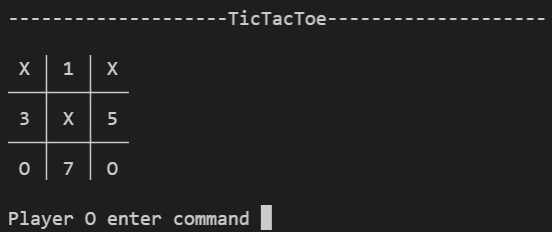
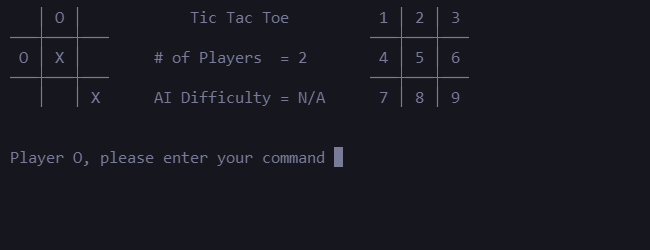
tictactoe simplify display game function and move command system from 0-8 to 1-9 for aesthetics

diff --git a/tictactoe/TicTacToe.cpp b/tictactoe/TicTacToe.cpp
@@ -3,17 +3,21 @@
 //  @Author: Junaid Afzal
 //
 
-#include "TicTacToe.hpp"
 
+
+// to prevent max error with windows.h redefining it
+// https://stackoverflow.com/questions/7035023/stdmax-expected-an-identifier/7035078
+#define NOMINMAX
+#include <windows.h>
+
+#include "TicTacToe.hpp"
 #include <iostream>
 #include <ctime>
 #include <limits>
 #include <algorithm>
 #include <conio.h>
-// to prevent max error with windows.h redefining it
-// https://stackoverflow.com/questions/7035023/stdmax-expected-an-identifier/7035078
-#define NOMINMAX
-#include <windows.h>
+
+
 
 void Setup_Game(unsigned int &NumberOfTurns,
                 unsigned int &CurrentPlayer,
@@ -31,7 +35,7 @@ void Setup_Game(unsigned int &NumberOfTurns,
 
     for (int j = 0; j < 3; j++, GridNumber++)
     {
-      GameData[i].push_back(std::to_string(GridNumber));
+      GameData[i].push_back(" ");
       ValidMovesRemaining.push_back(GridNumber);
     }
   }
@@ -63,7 +67,7 @@ int Get_Number_Of_Players(const std::vector<std::vector<std::string>> &GameData,
 
   while (!IsValueCorrect)
   {
-    Display_Game(GameData, -1, "N/A");
+    Display_Game(GameData, "N/A", "N/A");
     std::cout << "\n\nEnter the number of human players ";
 
     std::cin >> NumberOfPlayers;
@@ -103,7 +107,7 @@ int Get_User_X_O_Choice(const std::vector<std::vector<std::string>> &GameData,
 
   while (!IsValueCorrect)
   {
-    Display_Game(GameData, NumberOfPlayers, "N/A");
+    Display_Game(GameData, std::to_string(NumberOfPlayers), "N/A");
     std::cout << "\n\nEnter you player counter (X or O) ";
 
     std::cin >> UserXOChoice;
@@ -150,7 +154,7 @@ std::string Get_AI_Difficulty(const std::vector<std::vector<std::string>> &GameD
 
   while (!IsValueCorrect)
   {
-    Display_Game(GameData, NumberOfPlayers, "N/A");
+    Display_Game(GameData, std::to_string(NumberOfPlayers), "N/A");
     std::cout << "\n\nEnter the AI difficulty (EASY or HARD) ";
 
     std::cin >> AIDifficulty;
@@ -198,7 +202,7 @@ std::string Get_AI_Difficulty(const std::vector<std::vector<std::string>> &GameD
     Capitalise_Word(AIDifficulty);
 
     // Only X and O inputs allowed
-    if ((AIDifficulty != "EASY") && (AIDifficulty != "HARD"))
+    if (AIDifficulty != "EASY" && AIDifficulty != "HARD")
     {
       // Clear buffer and retry
       std::cin.clear();
@@ -241,30 +245,30 @@ bool Game_Over(const unsigned int &NumberOfTurns)
 bool Winning_Conditions_Met(const std::vector<std::vector<std::string>> &GameData)
 {
   // Check Horizontals
-  if (GameData[0][0] == GameData[0][1] && GameData[0][1] == GameData[0][2])
+  if (GameData[0][0]!= " " && GameData[0][0] == GameData[0][1] && GameData[0][1] == GameData[0][2])
     return true;
 
-  else if (GameData[1][0] == GameData[1][1] && GameData[1][1] == GameData[1][2])
+  else if (GameData[1][0]!= " " && GameData[1][0] == GameData[1][1] && GameData[1][1] == GameData[1][2])
     return true;
 
-  else if (GameData[2][0] == GameData[2][1] && GameData[2][1] == GameData[2][2])
+  else if (GameData[2][0]!= " " && GameData[2][0] == GameData[2][1] && GameData[2][1] == GameData[2][2])
     return true;
 
   // Check verticals
-  else if (GameData[0][0] == GameData[1][0] && GameData[1][0] == GameData[2][0])
+  else if (GameData[0][0]!= " " && GameData[0][0] == GameData[1][0] && GameData[1][0] == GameData[2][0])
     return true;
 
-  else if (GameData[0][1] == GameData[1][1] && GameData[1][1] == GameData[2][1])
+  else if (GameData[0][1]!= " " && GameData[0][1] == GameData[1][1] && GameData[1][1] == GameData[2][1])
     return true;
 
-  else if (GameData[0][2] == GameData[1][2] && GameData[1][2] == GameData[2][2])
+  else if (GameData[0][2]!= " " && GameData[0][2] == GameData[1][2] && GameData[1][2] == GameData[2][2])
     return true;
 
   // Check diagonals
-  else if (GameData[0][0] == GameData[1][1] && GameData[1][1] == GameData[2][2])
+  else if (GameData[0][0]!= " " && GameData[0][0] == GameData[1][1] && GameData[1][1] == GameData[2][2])
     return true;
 
-  else if (GameData[2][0] == GameData[1][1] && GameData[1][1] == GameData[0][2])
+  else if (GameData[2][0]!= " " && GameData[2][0] == GameData[1][1] && GameData[1][1] == GameData[0][2])
     return true;
 
   else
@@ -272,91 +276,36 @@ bool Winning_Conditions_Met(const std::vector<std::vector<std::string>> &GameDat
 }
 
 void Display_Game(const std::vector<std::vector<std::string>> &GameData,
-                  const unsigned int &NumberOfPlayers,
+                  const std::string &NumberOfPlayers,
                   const std::string &AIDifficulty)
 {
   // Start from blank terminal
   Clear_Terminal();
 
-  // Iterate across whole grid and output its value
-  for (unsigned int i = 0; i < 3; i++)
-  {
-    for (unsigned int j = 0; j < 3; j++)
-    {
-      if ((GameData[i][j] == "X") || (GameData[i][j] == "O"))
-        std::cout << std::left << " " << GameData[i][j] << " ";
-      else
-        std::cout << std::left << "   ";
+  // Line 1
+  std::cout << "\n " << GameData[0][0] << ' ' << (char)179 << ' ' << GameData[0][1] << ' ' << (char)179 << ' ' << GameData[0][2] << ' ';
+  std::cout << "\t    Tic Tac Toe    \t";
+  std::cout << " 1 " << (char)179 << " 2 " << (char)179 << " 3 \n";
 
-      // Vertical bars
-      if (j == 0 || j == 1)
-        std::cout << (char)179;
-    }
+  // Line 2
+  std::cout << (char)196 << (char)196 << (char)196 << (char)197 << (char)196 << (char)196 << (char)196 << (char)197 << (char)196 << (char)196 << (char)196;
+  std::cout << "\t\t\t\t";
+  std::cout << (char)196 << (char)196 << (char)196 << (char)197 << (char)196 << (char)196 << (char)196 << (char)197 << (char)196 << (char)196 << (char)196;
 
-    std::cout << '\t';
+  // Line 3
+  std::cout << "\n " << GameData[1][0] << ' ' << (char)179 << ' ' << GameData[1][1] << ' ' << (char)179 << ' ' << GameData[1][2] << ' ';
+  std::cout << "\t# of Players  = " << NumberOfPlayers << '\t';
+  std::cout << " 4 " << (char)179 << " 5 " << (char)179 << " 6 \n";
 
-    switch (i)
-    {
-    case 0:
-      std::cout << "    Tic Tac Toe    ";
-    break;
+  // Line 4
+  std::cout << (char)196 << (char)196 << (char)196 << (char)197 << (char)196 << (char)196 << (char)196 << (char)197 << (char)196 << (char)196 << (char)196;
+  std::cout << "\t\t\t\t";
+  std::cout << (char)196 << (char)196 << (char)196 << (char)197 << (char)196 << (char)196 << (char)196 << (char)197 << (char)196 << (char)196 << (char)196;
 
-    case 1:
-      if (NumberOfPlayers == -1)
-        std::cout << "# of Players  = N/A";
-      else
-        std::cout << "# of Players  = " << NumberOfPlayers;
-      break;
-
-    case 2:
-      std::cout << "AI Difficulty = " << AIDifficulty;
-      break;
-
-    default:
-      std::cout << "\n\nError in Display_Game() switch statement\n\n";
-      exit(1);
-      break;
-    }
-
-    std::cout << '\t';
-
-    for (unsigned int j = 0; j < 3; j++)
-    {
-      std::cout << std::left << " " << j+i*3 << " ";
-
-      // Vertical bars
-      if (j == 0 || j == 1)
-        std::cout << (char)179;
-    }
-
-    // Horizontal bars
-    if (i == 0 || i == 1)
-    {
-      std::cout << '\n';
-
-      for (unsigned int j = 0; j <= 10; j++)
-      {
-        if (j == 3 || j == 7)
-          std::cout << (char)197;
-
-        else
-          std::cout << (char)196;
-      }
-
-      std::cout << "\t\t\t\t";
-
-      for (unsigned int j = 0; j <= 10; j++)
-      {
-        if (j == 3 || j == 7)
-          std::cout << (char)197;
-
-        else
-          std::cout << (char)196;
-      }
-
-      std::cout << '\n';
-    }
-  }
+  // Line 5
+  std::cout << "\n " << GameData[2][0] << ' ' << (char)179 << ' ' << GameData[2][1] << ' ' << (char)179 << ' ' << GameData[2][2] << ' ';
+  std::cout << "\tAI Difficulty = " << AIDifficulty << '\t';
+  std::cout << " 7 " << (char)179 << " 8 " << (char)179 << " 9 \n";
 }
 
 void Clear_Terminal(void)
@@ -418,7 +367,7 @@ void Ask_User_For_Next_Input(std::vector<std::vector<std::string>> &GameData,
 
   while (!IsValueCorrect)
   {
-    Display_Game(GameData, NumberOfPlayers, AIDifficulty);
+    Display_Game(GameData, std::to_string(NumberOfPlayers), AIDifficulty);
     std::cout << "\n\nPlayer " << (char)CurrentPlayer << ", please enter your command ";
 
     std::cin >> UserCommand;
@@ -430,6 +379,9 @@ void Ask_User_For_Next_Input(std::vector<std::vector<std::string>> &GameData,
       std::cin.ignore(std::numeric_limits<std::streamsize>::max(), '\n');
       continue;
     }
+
+    // To get it into range of 0-8
+    UserCommand--;
 
     auto CommandPosition = std::find(ValidMovesRemaining.begin(), ValidMovesRemaining.end(), UserCommand);
 
@@ -470,7 +422,7 @@ void Ask_Computer_For_Next_Input(std::vector<std::vector<std::string>> &GameData
     bool IsValueCorrect = false; // Flag for if input value is valid
     unsigned int ComputerCommand, Row, Column;
 
-    Display_Game(GameData, NumberOfPlayers, AIDifficulty);
+    Display_Game(GameData, std::to_string(NumberOfPlayers), AIDifficulty);
 
     // Computer is dumb and picks a pseudo random number as command
     ComputerCommand = ValidMovesRemaining[std::rand() % ValidMovesRemaining.size()];
@@ -501,7 +453,7 @@ void Display_Game_Over_Message(const std::vector<std::vector<std::string>> &Game
                                const unsigned int &NumberOfTurns,
                                bool &GameIsRunning)
 {
-  Display_Game(GameData, NumberOfPlayers, AIDifficulty);
+  Display_Game(GameData, std::to_string(NumberOfPlayers), AIDifficulty);
 
   // Winner will be current player as Toggle_Player() function has not been called
   // from receiving input and determining winner

diff --git a/tictactoe/TicTacToe.hpp b/tictactoe/TicTacToe.hpp
@@ -41,7 +41,7 @@ bool Game_Over(const unsigned int &NumberOfTurns);
 bool Winning_Conditions_Met(const std::vector<std::vector<std::string>> &GameData);
 
 void Display_Game(const std::vector<std::vector<std::string>> &GameData,
-                  const unsigned int &NumberOfPlayers,
+                  const std::string &NumberOfPlayers,
                   const std::string &AIDifficulty);
 
 // Windows API method taken from https://www.cplusplus.com/articles/4z18T05o

diff --git a/tictactoe/main.cpp b/tictactoe/main.cpp
@@ -12,7 +12,7 @@ int main(void)
   while (GameIsRunning)
   {
     // GameData contains the Tic Tac Toe grid
-    unsigned int NumberOfTurns = 0, CurrentPlayer = -1, NumberOfPlayers = -1, UserXOChoice = 0;
+    unsigned int NumberOfTurns = 0, CurrentPlayer = 0, NumberOfPlayers = 0, UserXOChoice = 0;
     std::string AIDifficulty = "N/A";
     std::vector<std::vector<std::string>> GameData;
     std::vector<int> ValidMovesRemaining;

diff --git a/README.md b/README.md
@@ -14,7 +14,7 @@
   * 1 player represents a human vs computer
   * 0 players represent computer vs computer
 * The computer is 'dumb' as it picks random positions
-* The terminal is 'refreshed' by printing 100 new lines
+* The terminal is 'refreshed' using a method that is only supported on Windows
 
 ## Hangman
 <p align="center">
@@ -29,7 +29,7 @@
 * No hyphens/spaces/non-letters are allowed in the word to be guessed
 * Guessing with a word will count as one guess and will not replace any letters
 * The computer is 'dumb' by either randomly picking a word from `hangman/Words.txt` or a random letter when guessing
-* The terminal is 'refreshed' by printing 100 new lines
+* The terminal is 'refreshed' using a method that is only supported on Windows
 
 ## Battleships
 <p align="center">
@@ -42,7 +42,7 @@
   * 1 player represents a human vs computer
   * 0 players represent computer vs computer
 * The computer is 'dumb' as it picks random positions to place its ships and random locations to attack ships
-* The terminal is 'refreshed' by printing 100 new lines
+* The terminal is 'refreshed' using a method that is only supported on Windows
 
 ## Warning
 Terminal 'refreshing' is only supported on Windows Command Prompt and Windows Powershell
